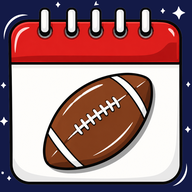
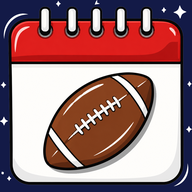
Add files via upload

diff --git a/index.html b/index.html
@@ -25,6 +25,7 @@
 
   <div class="masthead">
     <div class="masthead-brand">
+      <img src="masthead-logo.png" alt="" class="masthead-logo">
       <h1>Saturday is for CFB</h1>
       <span class="tagline">Game Day, Your Way</span>
     </div>
@@ -777,7 +778,7 @@ function renderNewsForYou(board){
   const items = buildNewsForYou();
   const section = document.createElement('div');
   section.className = 'nfy-section';
-  section.innerHTML = '<h2>News for You:</h2>';
+  section.innerHTML = '<h2><img src="news-icon.png" alt="" class="section-icon">News for You:</h2>';
   const grid = document.createElement('div');
   grid.className = 'nfy-grid';
   if(!items.length){
@@ -814,7 +815,7 @@ function renderHomepage(board){
   if(weekGames.length){
     const section = document.createElement('div');
     section.className = 'week-section';
-    section.innerHTML = '<h2>Your CFB Week:</h2>';
+    section.innerHTML = '<h2><img src="schedule-icon.png" alt="" class="section-icon">Your CFB Week:</h2>';
     const list = document.createElement('div');
     list.className = 'week-list';
     weekGames.forEach(({team,g})=> list.appendChild(buildWeekCard(team,g)));

diff --git a/styles.css b/styles.css
@@ -53,7 +53,9 @@ button, .tab, .tab-add, .del-row, .close{touch-action:manipulation;}
   margin-bottom:6px;
   flex-wrap:wrap;
 }
-.masthead-brand{display:flex;align-items:baseline;gap:12px;flex-wrap:wrap;}
+.masthead-brand{display:flex;align-items:center;gap:12px;flex-wrap:wrap;}
+.masthead-logo{height:38px;width:38px;object-fit:contain;flex:none;border-radius:8px;}
+.section-icon{height:22px;width:auto;object-fit:contain;vertical-align:middle;margin-right:8px;}
 .masthead h1{
   font-family:'Barlow Condensed',sans-serif;
   font-weight:800;
